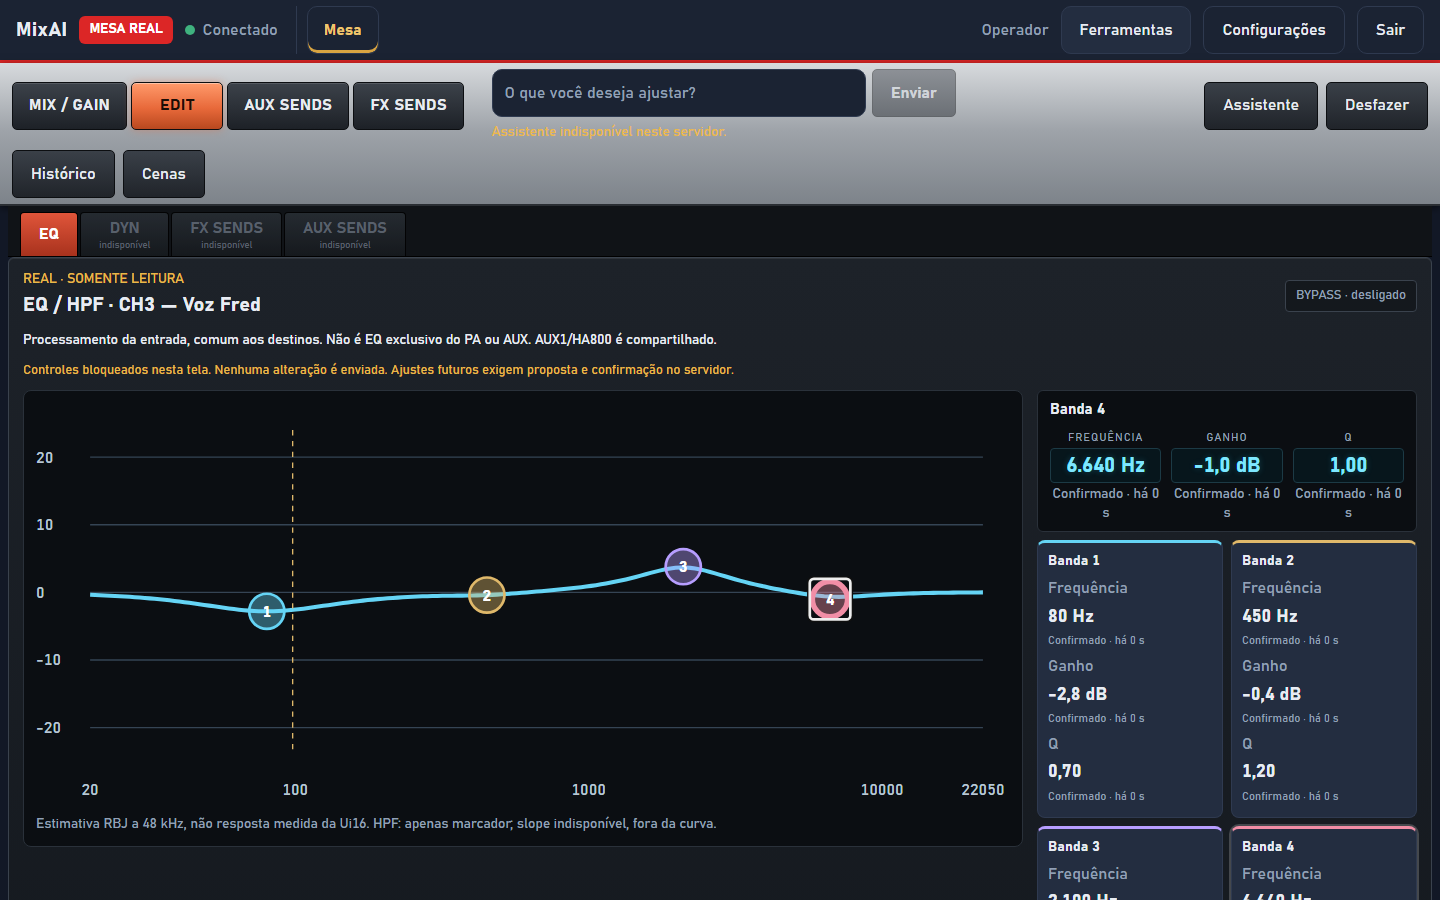
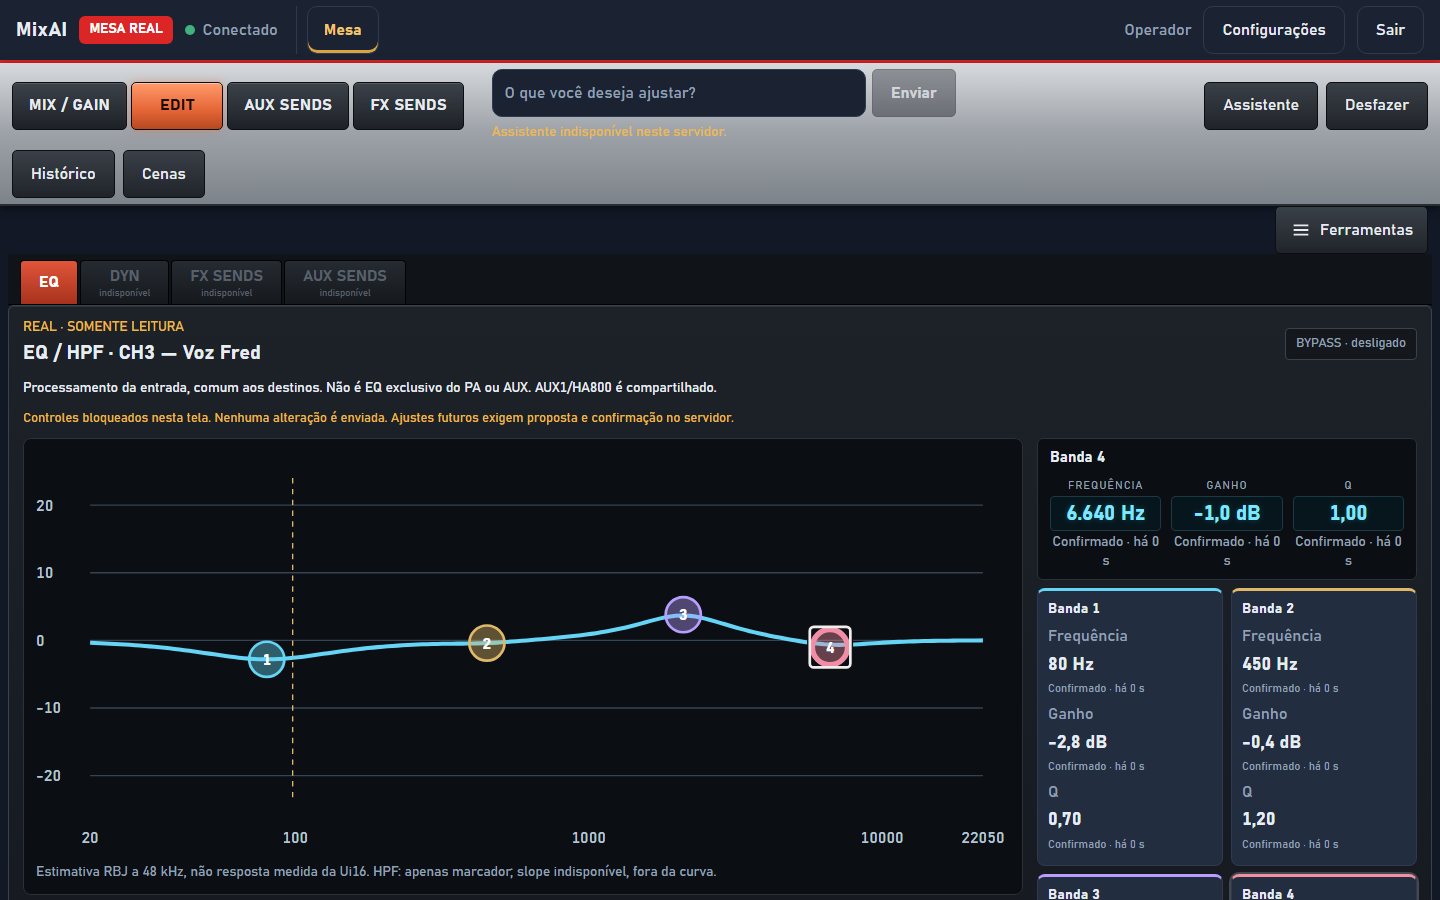
fix(web): layout do console robusto a fontes largas (CI Ubuntu) e botao Ferramentas unico
- reproduzido o CI Ubuntu em conteiner (Playwright noble, DejaVu Sans): barra deitada 118>64, fader a 539>520 no 320x640 e estouro horizontal do tablet em REAL (a faixa de estado nao quebra linha e o botao Ferramentas a alargava).
- botao Ferramentas agora fica unico na linha Referencia e pedidos (todas as larguras); abas curtas mais compactas no celular; em retrato o MUTE/SOLO desce para baixo do fader.
- nenhum teste afrouxado e nenhum timeout alterado.

diff --git a/web/src/styles.css b/web/src/styles.css
@@ -1933,10 +1933,10 @@ mx-root {
 }
 .mx-mesa .shared-warning, .mx-mesa .sim-legend { color: #14181c; }
 .mx-mesa .tools-trigger[aria-expanded='true'] { background: linear-gradient(180deg, var(--active-hi), var(--active)); color: #1b0d06; }
-.tools-menu {
-  position: absolute;
-  right: 12px;
-  top: 112px;
+.tools-menu {
+  position: absolute;
+  right: 12px;
+  top: 100%;
   z-index: 60;
   display: grid;
   min-width: 260px;
@@ -2073,32 +2073,36 @@ mx-root {
 @media (max-width: 720px) {
   .mx-mesa .console-nav button { padding: 0 8px; font-size: 0.78rem; flex: 1; }
   .mx-mesa .console-nav { width: 100%; }
-  .tools-menu { right: 8px; left: 8px; }
+  .tools-menu { right: 8px; left: 8px; }
 }
 
 /* celular: rótulos curtos nas abas (o nome acessível continua completo via aria-label) */
 @media (max-width: 720px) {
-  .mx-mesa .toolbar .console-nav { width: auto; flex: 0 0 auto; gap: 3px; }
-  .mx-mesa .toolbar .console-nav button { font-size: 0; padding: 0 8px; min-width: 44px; flex: 0 0 auto; min-height: 48px; }
-  .mx-mesa .toolbar .console-nav button::after { content: attr(data-short); font-size: 0.78rem; }
-  .tools-menu { top: 150px; }
+  .mx-mesa .toolbar .console-nav { width: auto; flex: 0 0 auto; gap: 2px; }
+  .mx-mesa .toolbar .console-nav button { font-size: 0; padding: 0 4px; min-width: 38px; flex: 0 0 auto; min-height: 48px; }
+  .mx-mesa .toolbar .console-nav button::after { content: attr(data-short); font-size: 0.72rem; }
 }
 
 /* celular (retrato ou deitado): rótulos curtos nas abas e Ferramentas compacta, para a barra continuar numa linha */
 @media (max-height: 500px) {
-  .mx-mesa .toolbar .console-nav { width: auto; flex: 0 0 auto; gap: 3px; }
-  .mx-mesa .toolbar .console-nav button { font-size: 0; padding: 0 8px; min-width: 44px; flex: 0 0 auto; }
-  .mx-mesa .toolbar .console-nav button::after { content: attr(data-short); font-size: 0.78rem; }
-}
-.mx-mesa .tools-compact { display: none; }
-@media (max-width: 720px), (max-height: 500px) {
-  .mx-mesa .tools-trigger { display: none; }
-  .mx-mesa .tools-compact { display: inline-flex; align-items: center; justify-content: center; width: 48px; min-width: 48px; min-height: 48px; padding: 0; }
-  .mx-mesa .tools-compact svg { width: 24px; height: 24px; fill: none; stroke: currentColor; stroke-width: 2; }
-  .tools-menu { position: relative; top: auto; right: auto; left: auto; margin: 6px 8px; }
+  .mx-mesa .toolbar .console-nav { width: auto; flex: 0 0 auto; gap: 2px; }
+  .mx-mesa .toolbar .console-nav button { font-size: 0; padding: 0 4px; min-width: 36px; flex: 0 0 auto; }
+  .mx-mesa .toolbar .console-nav button::after { content: attr(data-short); font-size: 0.72rem; }
 }
 
-.mx-mesa .ref-row { display: contents; }
-@media (max-width: 720px), (max-height: 500px) {
-  .mx-mesa .ref-row { display: flex; align-items: center; justify-content: space-between; gap: 8px; padding-right: 8px; }
+
+/* Ferramentas: um único botão na linha "Referência e pedidos" (não aumenta a barra nem a faixa de estado) */
+.mx-mesa .ref-row { position: relative; display: flex; align-items: center; justify-content: space-between; gap: 8px; padding-right: 12px; }
+.mx-mesa .tools-trigger { display: inline-flex; align-items: center; gap: 8px; min-height: 48px; padding: 0 14px; background: linear-gradient(180deg, #3a4048, #20242a); color: #e8ecf1; border: 1px solid #0c0e11; border-radius: 5px; }
+.mx-mesa .tools-trigger svg { width: 22px; height: 22px; fill: none; stroke: currentColor; stroke-width: 2; }
+@media (max-width: 720px), (max-height: 500px) {
+  .mx-mesa .tools-trigger { width: 48px; min-width: 48px; padding: 0; justify-content: center; }
+  .mx-mesa .tools-trigger .tools-label { display: none; }
+  .mx-mesa .ref-row { padding-right: 8px; }
+}
+
+/* celular em retrato: o fader sobe (MUTE/SOLO descem para baixo do fader) para os faders ficarem na primeira tela */
+@media (max-width: 720px) {
+  .mx-mesa .console .strip-keys { order: 2; }
+  .mx-mesa .console .strip-body { order: 1; }
 }

diff --git a/web/src/app/views/mesa.component.ts b/web/src/app/views/mesa.component.ts
@@ -50,7 +50,6 @@ const UNKNOWN: StateValue = { status: 'unknown' };
           <button type="button" class="nav-tab" [class.on]="onPassagem()" [attr.aria-current]="onPassagem() ? 'page' : null" (click)="go('passagem')">Passagem de som</button>
         }
       </nav>
-      <button status-tools type="button" class="btn tools-trigger" aria-label="Ferramentas" data-testid="tools-trigger" aria-haspopup="menu" [attr.aria-expanded]="toolsOpen()" (click)="toolsOpen.set(!toolsOpen())">Ferramentas</button>
       @if (live.hello()?.mode === 'lab' && live.hello()?.role === 'operator') {
         <ng-container status-action>
         <button status-action type="button" class="btn" (click)="showEq.set(true)" [attr.aria-expanded]="showEq()">EQ LAB</button>
@@ -116,20 +115,20 @@ const UNKNOWN: StateValue = { status: 'unknown' };
 
     <div class="ref-row">
       <mx-reference-workspace />
-      <button type="button" class="btn tools-compact" aria-label="Ferramentas" data-testid="tools-trigger-compact" aria-haspopup="menu" [attr.aria-expanded]="toolsOpen()" (click)="toolsOpen.set(!toolsOpen())">
-        <svg class="tb-icon-always" viewBox="0 0 24 24" aria-hidden="true"><path d="M4 7h16M4 12h16M4 17h16" /></svg>
+      <button type="button" class="btn tools-trigger" aria-label="Ferramentas" data-testid="tools-trigger" aria-haspopup="menu" [attr.aria-expanded]="toolsOpen()" (click)="toolsOpen.set(!toolsOpen())">
+        <svg class="tb-icon-always" viewBox="0 0 24 24" aria-hidden="true"><path d="M4 7h16M4 12h16M4 17h16" /></svg><span class="tools-label">Ferramentas</span>
       </button>
+      @if (toolsOpen()) {
+        <div class="tools-menu" role="menu" aria-label="Ferramentas do MixAI" data-testid="tools-menu">
+          <button type="button" role="menuitem" (click)="openTool('assistant')">Assistente de IA</button>
+          <button type="button" role="menuitem" (click)="openTool('diagnostic')">Diagnóstico <small>(no assistente, somente consulta)</small></button>
+          <button type="button" role="menuitem" (click)="openTool('scenes')">Cenas</button>
+          <button type="button" role="menuitem" (click)="openTool('history')">Histórico</button>
+          <button type="button" role="menuitem" (click)="openTool('knowledge')">Base de conhecimento</button>
+          <button type="button" role="menuitem" (click)="openTool('settings')">Configurações e administração <small>(IA, nomes e aliases)</small></button>
+        </div>
+      }
     </div>
-    @if (toolsOpen()) {
-      <div class="tools-menu" role="menu" aria-label="Ferramentas do MixAI" data-testid="tools-menu">
-        <button type="button" role="menuitem" (click)="openTool('assistant')">Assistente de IA</button>
-        <button type="button" role="menuitem" (click)="openTool('diagnostic')">Diagnóstico <small>(no assistente, somente consulta)</small></button>
-        <button type="button" role="menuitem" (click)="openTool('scenes')">Cenas</button>
-        <button type="button" role="menuitem" (click)="openTool('history')">Histórico</button>
-        <button type="button" role="menuitem" (click)="openTool('knowledge')">Base de conhecimento</button>
-        <button type="button" role="menuitem" (click)="openTool('settings')">Configurações e administração <small>(IA, nomes e aliases)</small></button>
-      </div>
-    }
     @if (view() === 'edit') {
       <section class="edit-main" aria-label="EDIT">
         <div class="edit-tabs" role="tablist" aria-label="Seções de EDIT">

diff --git a/test/e2e/console-redesign.test.ts b/test/e2e/console-redesign.test.ts
@@ -141,11 +141,10 @@ for (const [label, device] of [
     page.on('pageerror', (e) => errors.push(e.message));
     try {
       await page.evaluate(() => scrollTo(0, 0));
-      const trigger = page.getByTestId('tools-trigger-compact');
+      const trigger = page.getByTestId('tools-trigger');
       await trigger.waitFor({ state: 'visible' });
       const box = (await trigger.boundingBox())!;
       expect(box.width).toBeGreaterThanOrEqual(44); expect(box.height).toBeGreaterThanOrEqual(44);
-      expect(await page.getByTestId('tools-trigger').isVisible()).toBe(false); // só uma cópia visível
       await trigger.click();
       await page.getByTestId('tools-menu').waitFor();
       const items = await page.locator('[data-testid=tools-menu] [role=menuitem]').allTextContents();
